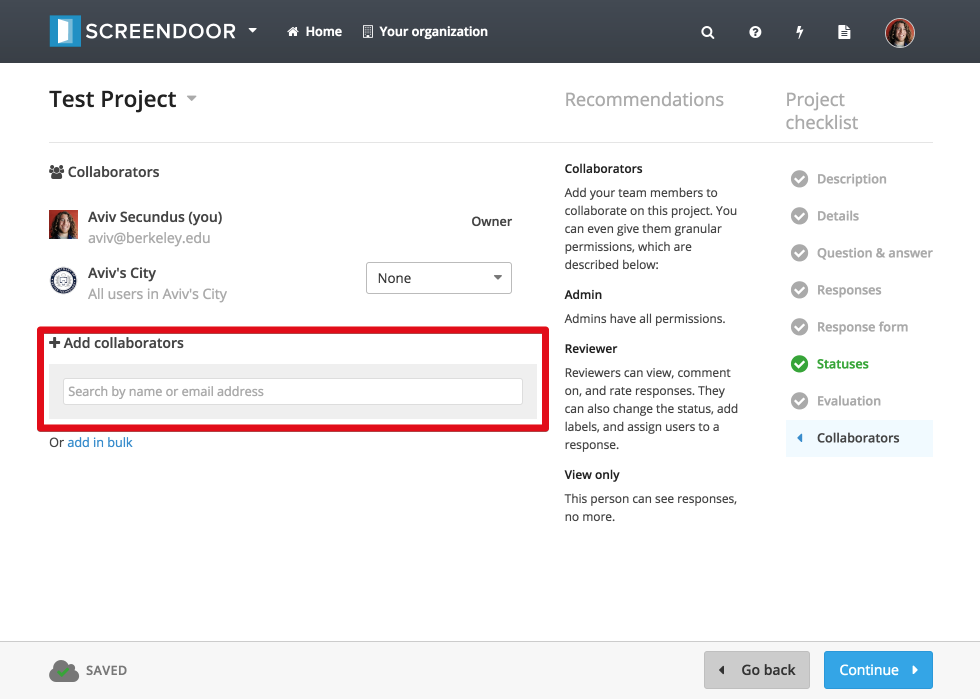
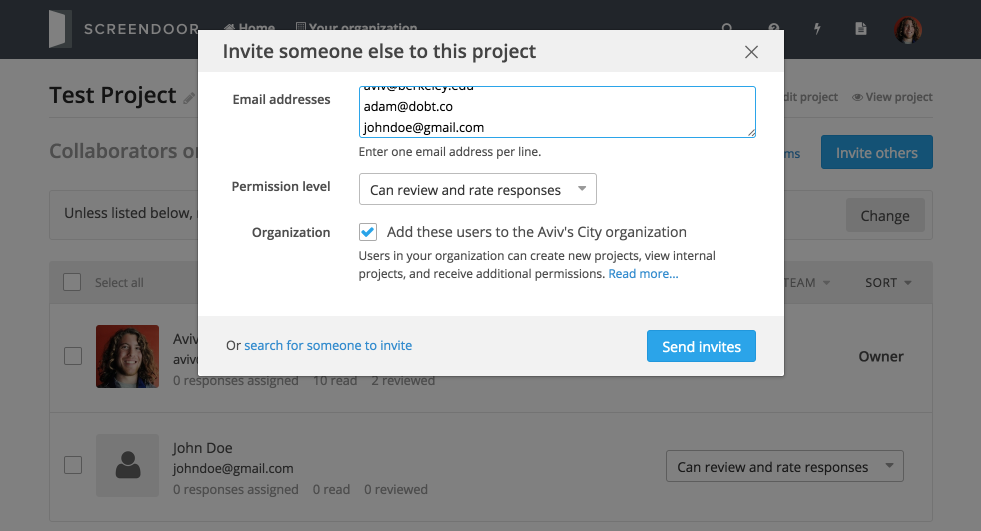
update collaborators, update assignment/teams

diff --git a/contents/articles/screendoor/projects/collaborators.md b/contents/articles/screendoor/projects/collaborators.md
@@ -2,32 +2,38 @@
 title: Collaborators
 order: 5
 app_pages:
-  - projectadmin-wizard-collaborators
+  - projectadmin-collaborators-index
 ---
 
-## Adding individual collaborators
+## Adding collaborators
 
-You can add collaborators to your project when you first create it, but you can also go back and add (as well as configure and remove) collaborators later. From the main project page, click "Edit project" and select "Collaborators" from the Project Checklist on the right-hand side of the page. You can search for an individual to add by typing their name or email address into the search box under "Add collaborators."
+To add collaborators to your project, navigate to the "Collaborators" page and click the "Invite others" button.
+
+![add collaborators](../images/invite_collaborators.png)
+
+### Adding individual collaborators
+
+You can search for an individual to add by typing their name or email address into the search box.
+
+![add collaborator](../images/add_collaborator.png)
+
+If the person you are searching for is already registered and part of your organization, you'll see them come up in your search and can add them immediately. Make sure to select the appropriate permission level from the dropdown.
+
+![add collaborator2](../images/add_collaborator2.png)
+
+You can also invite someone to collaborate if they are not yet registered with your project. Just enter their name and email address, select a permission level, choose whether or not to add them to your organization, and click "Add."
+
+![add collaborator3](../images/add_collaborator3.png)
+
+### Adding collaborators in bulk
+
+To add collaborators in bulk, click "invite in bulk" and enter the email addresses of the collaborators you'd like to invite (one per line). Then, select the appropriate permission level, choose whether or not to add them to your organization, and click "Send invites."
 
 ![add collaborators](../images/add_collaborators.png)
 
-If the person you are searching for is already registered and part of your organization, you'll see them come up in your search and can add them immediately. Make sure to select the appropriate permission level from the dropdown (note the explanations of each permission level under "Recommendations").
-
-![add collaborators 2](../images/add_collaborators2.png)
-
-You can also invite someone to collaborate if they are not yet registered with your project. Just enter their name and email address, select a permission level, choose whether or not to add them to your organization, and click "Send invite."
-
-![add collaborator not registered](../images/add_collaborators3.png)
-
-## Adding collaborators in bulk
-
-To add collaborators in bulk, click "add in bulk" and enter the email addresses of the collaborators you'd like to invite (one per line). Then, select the appropriate permission level, choose whether or not to add them to your organization, and click "Send invites."
-
-![add collaborators in bulk](../images/add_collaborators_in_bulk.png)
-
 ## Allowing all organization members to collaborate
 
-If you want to allow individuals who are already members of your organization (but have not been added as collaborators to your project) to collaborate, simply select the appropriate organization-wide permission level. This way, you don't have to manually add everyone who is already a part of your organization every time you create a new project.
+If you want to allow individuals who are already members of your organization (but have not been added as collaborators to your project) to collaborate, click "Change," select the appropriate permission level, and click "Save." This way, you don't have to manually add everyone who is already a part of your organization every time you create a new project.
 
 ![organization permissions](../images/organization_permissions.png)
 
@@ -37,22 +43,31 @@ This will allow all members of your organization to collaborate, and give them t
 
 You can always go back and change permissions for a collaborator after you have added them. Simply select the new permissions level you wish to give a collaborator from the dropdown next to their name and email address on the "Collaborators" page.
 
-![assign permission](../images/assign_collaborator_permission.png)
+![assign collaborator permissions](../images/assign_collaborator_permissions.png)
 
 Here is a summary of the available permission levels:
 
-- **View Only**: View-only users can see responses, no more.
+- **Can view responses**: View-only users can see responses, no more.
 
-- **Reviewer**: Reviewers can view, comment on, and rate responses. They can also change the status, add labels, and assign users to a response.
+- **Can review and rate responses**: Reviewers can view, comment on, and rate responses. They can also change the status, add labels, and assign users to a response.
 
-- **Admin**: Admins have all permissions.
+- **Administrator**: Administrators have all permissions.
 
 ## Custom permissions
 
-If you need more control and configuration options for a collaborators permission level, you might want to use the "Custom" permission level. After you add a collaborator with a custom permission level (or change an existing collaborator's permission level to "Custom"), simply click the "Set permissions" link under the permissions dropdown on the "Collaborators" page. Just check or un-check specific boxes to set permissions for this collaborator. If you aren't sure which permissions to give a specific collaborator, you can always change their permissions back to one of the predefined permission levels.
+If you need more granular control and configuration options for a collaborator's permission level, use the "Custom" permission level. After you add a collaborator with a custom permission level (or change an existing collaborator's permission level to "Custom"), click the "edit" icon next to the permissions dropdown. Then, check or un-check the appropriate checkboxes to set permissions for this collaborator. Click "Save permissions" when you're done. If you aren't sure which permissions to give a specific collaborator, you can always change their permissions back to one of the predefined permission levels.
 
-![collaborator](../images/collaborator.png)
+![custom collaborator permissions](../images/custom_collaborator_permissions.png)
 
 ## Removing collaborators
 
-To remove a collaborator, simply click the "-" link next to the collaborator you would like to remove. Note that this link only appears when you move your mouse over the collaborator.
+To remove a collaborator, check the box next to their name and click the "Remove" link at the top of the "Collaborators" table.
+
+---
+
+## Can I organize collaborators into teams?
+Yes! Check the boxes next to the appropriate collaborators and click the "Team" button. Then, enter the name of your new team and click "Add" to create a new team with those collaborators in it.
+
+![add team](../images/add_team2.png)
+
+Check out the [Project teams](teams.html) article for more details on managing teams.

diff --git a/contents/articles/screendoor/projects/teams.md b/contents/articles/screendoor/projects/teams.md
@@ -1,0 +1,35 @@
+---
+title: Project teams
+order: 6
+app_pages:
+  - projectadmin-collaborators-index
+  - projectadmin-teams-index
+---
+
+Organize collaborators into teams to streamline the collaborative review workflow for your project.
+
+## Managing teams
+
+To manage teams for your project, click the "Edit teams" link from the "Collaborators" page.
+
+![edit teams](../images/edit_teams.png)
+
+### Adding teams
+
+To add a team, click the "Add team" button from the "Edit teams" page. Enter the name of your team and click "Create."
+
+![add team](../images/add_team.png)
+
+### Renaming and deleting teams
+
+To rename a team, click the "Rename" link for a team. To delete a team, click the "Delete" link.
+
+## Assigning collaborators to a team
+
+To assign collaborators to a team, check the box next to the appropriate collaborators from the "Collaborators" page for your project. Then, click the "Team" button and select the appropriate team from the dropdown.
+
+![assign to team](../images/assign_to_team.png)
+
+That's it! Once you've configured your project's teams, you can [assign responses](../responses/sorting_and_filtering_responses.html#assigning-responses) to the appropriate team for review.
+
+![teams](../images/teams.png)

diff --git a/contents/articles/screendoor/responses/sorting_and_filtering_responses.md b/contents/articles/screendoor/responses/sorting_and_filtering_responses.md
@@ -42,3 +42,17 @@ To perform an advanced search, click the "..." in the search bar on the "Respons
 From the "Advanced search" popup, you can create powerful custom search queries. Click "Add a filter" to filter by a variety of criteria. Then, click "Search" to find all responses that match your query.
 
 ![advanced search filters](../images/advanced_search.png)
+
+## Assigning responses
+
+### Assigning multiple responses
+
+To assign multiple responses to individuals or teams, check the appropriate responses from the "Responses" table and select the appropriate individuals/teams from the "Assign" dropdown.
+
+![assign responses](../images/assign_responses.png)
+
+### Assigning individual responses
+
+To assign a response to individuals or teams from an individual response page, click the "Change?" link under "Assigned to" in the sidebar. Then, select the appropriate individuals/teams from the dropdown.
+
+![assign response](../images/assign_response.png)

diff --git a/contents/articles/screendoor/projects/archiving_a_project.md b/contents/articles/screendoor/projects/archiving_a_project.md
@@ -1,6 +1,6 @@
 ---
 title: Archiving a project
-order: 7
+order: 8
 app_pages:
   - projectadmin-settings-settings
   - frontend-projects-show

diff --git a/contents/articles/screendoor/projects/notifications.md b/contents/articles/screendoor/projects/notifications.md
@@ -1,6 +1,6 @@
 ---
 title: Notifications
-order: 7
+order: 9
 app_pages:
   - projectadmin-settings-settings
   - projectadmin-responses-show

diff --git a/contents/articles/screendoor/projects/templates.md b/contents/articles/screendoor/projects/templates.md
@@ -1,6 +1,6 @@
 ---
 title: Project templates
-order: 6
+order: 7
 app_pages:
   - projecttemplates-index
   - projectadmin-settings-settings
